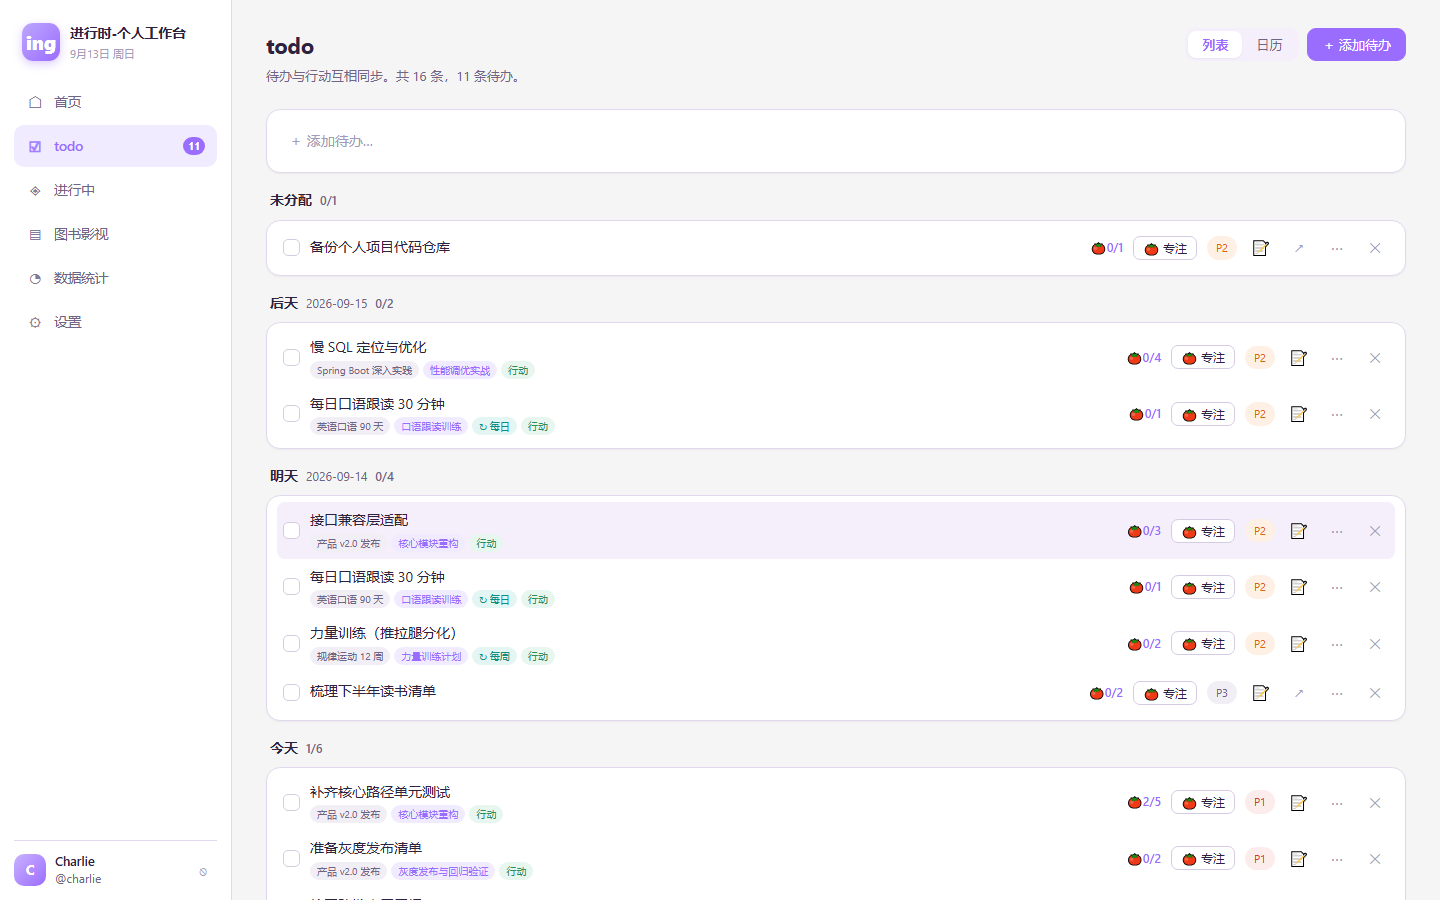
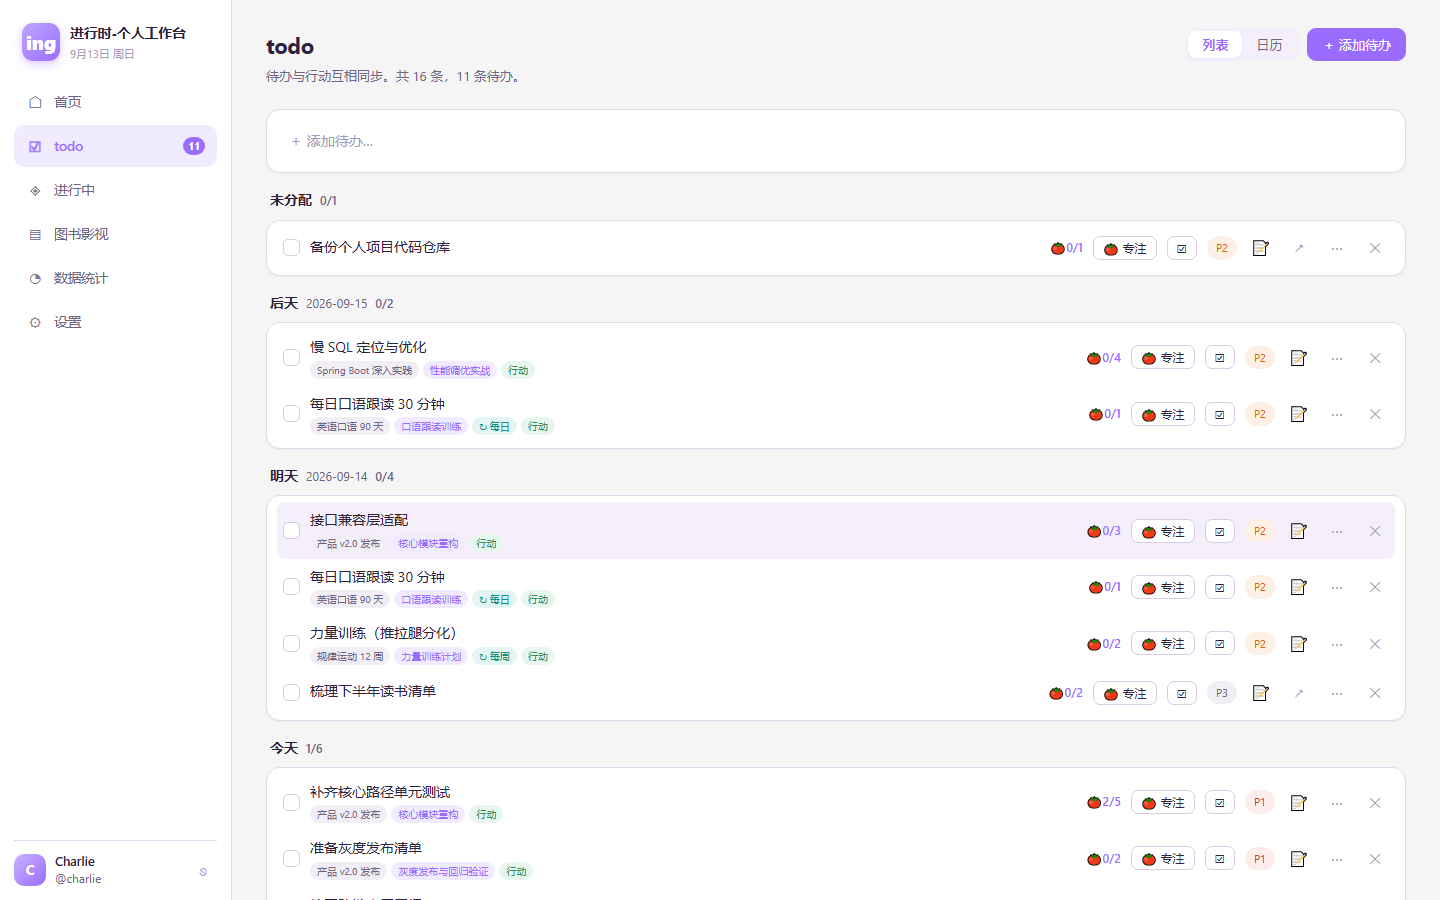
fix(stats): 番茄钟任务占比按实际绑定的待办/行动归类
番茄记录落库用的是后端不存在的 text/todoId/actionId 字段，被 Jackson 静默丢弃，
统计页只能按空任务名归组，全部计成「自由专注」。

- 写番茄统一改用后端契约 targetType/targetId/title（title = 记录时刻任务名快照）
- 统计页按 targetId 归组、展示名取当前待办/行动名，目标被删时回落到 title 快照
- 同步截图脚本的演示番茄数据（targetId 指向真实演示待办）

diff --git a/frontend/src/stores/data.js b/frontend/src/stores/data.js
@@ -670,7 +670,7 @@ export const useDataStore = defineStore('data', {
         await this.update('actions', act.id, { status: toDone ? 'done' : 'todo', doneDates: dd }, { silent: true })
       }
       if (toDone && this.settings.autoPomoOnTodo) {
-        await this.create('pomodoros', { date: today(), minutes: this.pomoMinutes, todoId: todo.id, actionId: todo.actionId || null, text: todo.text, type: 'todo' }, { silent: true })
+        await this.create('pomodoros', { date: today(), minutes: this.pomoMinutes, targetType: 'todo', targetId: todo.id, title: todo.text }, { silent: true })
         const tp = { pomoCount: (todo.pomoCount || 0) + 1 }
         if (act) tp.pomoCount = Math.max((act.pomoCount || 0) + 1, tp.pomoCount)
         await this.update('todos', todo.id, { pomoCount: tp.pomoCount }, { silent: true })
@@ -746,7 +746,7 @@ export const useDataStore = defineStore('data', {
         await this.update('todos', todo.id, { status: nxt.status, doneDate: nxt.status === 'done' ? today() : null }, { silent: true })
       }
       if (!done && this.settings.autoPomoOnAction && act.pomoCount == null) {
-        await this.create('pomodoros', { date: today(), minutes: this.pomoMinutes, actionId: act.id, text: act.name, type: 'action' }, { silent: true })
+        await this.create('pomodoros', { date: today(), minutes: this.pomoMinutes, targetType: 'action', targetId: act.id, title: act.name }, { silent: true })
       }
     },
 
@@ -776,6 +776,8 @@ export const useDataStore = defineStore('data', {
     // 结束当前番茄钟会话（到点或手动）：记录 + 若绑定待办则同步累计，并清理持久化。
     // 统一入口 —— 首页 / 待办页 / 刷新后补记都走这里，保证记录口径一致
     // （待办被删时降级为自由专注，而不是整颗丢弃）。
+    // 落库字段用后端的契约：targetType/targetId = 绑定目标，title = 任务名快照
+    // （曾用 text/todoId/actionId，后端实体没这些字段会被静默丢弃，导致统计页认不出任务）
     async finishPomoSession() {
       const s = this.pomoSession
       if (!s.endAt) return
@@ -785,8 +787,8 @@ export const useDataStore = defineStore('data', {
       let ref = {}
       if (todoId) {
         const t = this.todos.find(x => x.id === todoId)
-        if (t) ref = { todoId, actionId: t.actionId || null, text: t.text, type: 'todo' }
-        else todoId = '' // 待办在专注期间被删 → 降级为自由专注，不写悬空 todoId
+        if (t) ref = { targetType: 'todo', targetId: todoId, title: t.text }
+        else todoId = '' // 待办在专注期间被删 → 降级为自由专注，不写悬空绑定
       }
       await this.finishPomodoro(minutes, ref)
       this.toast(todoId ? `完成 1 个番茄钟（${minutes} 分钟），已计入所选待办 🍅` : `完成 1 个番茄钟（${minutes} 分钟），已记录 🍅`)
@@ -809,10 +811,12 @@ export const useDataStore = defineStore('data', {
     },
 
     // 完成番茄钟 → 记录 + 若绑定待办/行动则同步累计 pomoCount
+    // ref 由调用方给：{ targetType, targetId, title }（targetId 为待办 id 时才回写 pomoCount）
     async finishPomodoro(minutes = 25, ref = {}) {
       const p = await this.create('pomodoros', { date: today(), minutes, ...ref }, { silent: true })
-      if (ref.todoId) {
-        const td = this.todos.find(x => x.id === ref.todoId)
+      const bindTodoId = ref.targetId && ref.targetType !== 'action' ? ref.targetId : ''
+      if (bindTodoId) {
+        const td = this.todos.find(x => x.id === bindTodoId)
         if (td) {
           await this.update('todos', td.id, { pomoCount: (td.pomoCount || 0) + 1 }, { silent: true })
           if (td.actionId) {

diff --git a/frontend/src/views/StatsView.vue b/frontend/src/views/StatsView.vue
@@ -126,14 +126,22 @@ const metrics = computed(() => {
   return { totalTodos, totalActions, totalPomos, totalMinutes, goal, planned, actual, deviation, streak, totalPomoAll, totalMinutesAll }
 })
 
-/* 近 7 日番茄按任务占比（分组依据：番茄记录自带的任务名 text，未绑定的归为「自由专注」） */
+/* 近 7 日番茄按任务占比（分组依据：番茄记录绑定的目标 targetId，展示名取当前待办/行动名，
+   目标已被删除时回落到记录里的 title 快照；真正没绑定目标的才归为「自由专注」） */
 const pomoPalette = ['#9b6dff', '#6cc7a5', '#f5a35c', '#5aa9e6', '#f26d76', '#c9a227', '#8a8fa3']
 const pomoTaskDist = computed(() => {
   const week = days7.value.map(d => d.f)
   const list = store.pomodoros.filter(p => week.includes(p.date))
+  const nameOf = (p) => {
+    if (p.targetId) {
+      const hit = store.todos.find(t => t.id === p.targetId) || store.actions.find(a => a.id === p.targetId)
+      if (hit) return (hit.text || hit.name || '').trim() || '未命名'
+    }
+    return (p.title || '').trim() || '自由专注'
+  }
   const map = {}
   for (const p of list) {
-    const name = (p.text || '').trim() || '自由专注'
+    const name = nameOf(p)
     map[name] = (map[name] || 0) + 1
   }
   const items = Object.entries(map).map(([name, count]) => ({ name, count })).sort((a, b) => b.count - a.count)

diff --git a/CHANGELOG.md b/CHANGELOG.md
@@ -11,6 +11,7 @@
 - 绑定了行动的待办与其行动共用同一份子项，两侧的增删改与排序双向同步，删除时一并清理
 - 列表内联改名：双击名称就地编辑（待办、行动、首页「今日到期行动」）
 - 备份 / 恢复与历史数据迁移支持子项，不含子项的旧备份照常导入
+- 修复番茄钟任务占比：番茄按所绑定的待办 / 行动归类，不再全部计为「自由专注」
 
 ## v1.0.1
 
